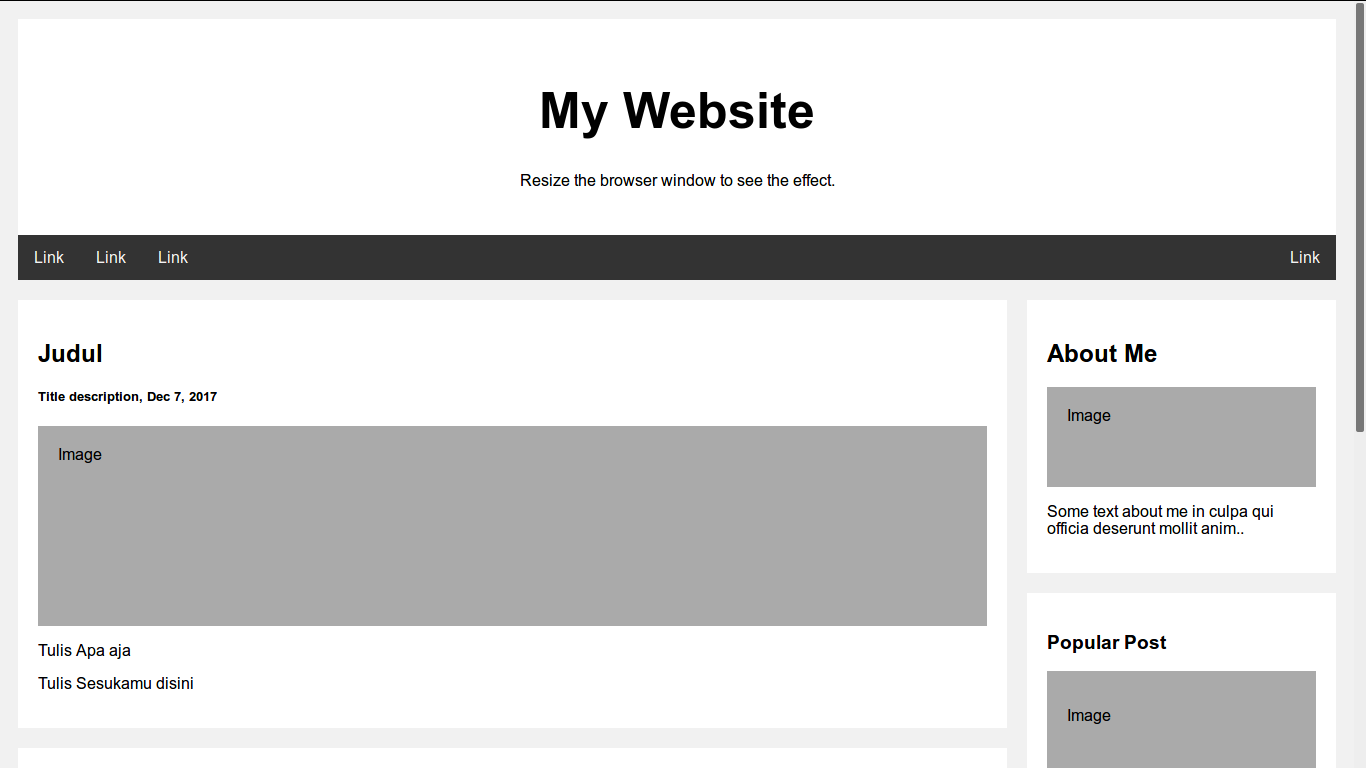
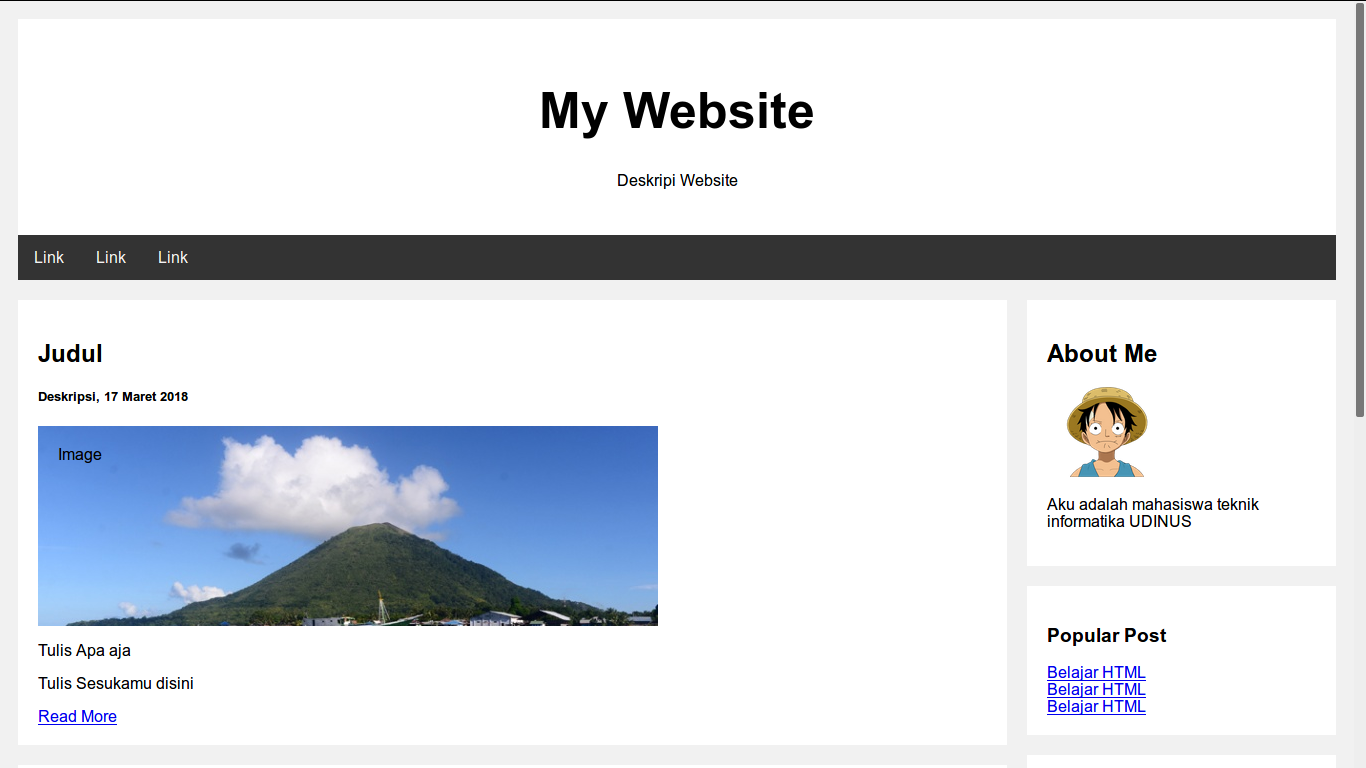
update lageee

diff --git a/WEB-PROGRAMMING-1.md b/WEB-PROGRAMMING-1.md
@@ -1,8 +1,6 @@
 ## Review Materi Pertemuan Pertama Doscom University
 
 ### HTML
-#### Membuat file html sederhana
-Untuk membuat file html anda cukup membuat file dengan menggunakan text editor. Kemudian simpan file tersebut dengan nama yang anda kehendaki dengan ekstensi `.html`. Selamat anda sudah dapat membuat file html \(^0^)/
 
 #### Memahami struktur HTML
 HTML sendiri memiliki struktur hirarkiah sebagai berikut :
@@ -337,7 +335,7 @@ p.namaClass{
 
 
 
-![Layout](assets/output.png)
+![Layout](assets/layout.png)
 
 - box-sizing adalah css property yang digunakan untuk merubah kalkulasi dalam mengukur lebar element. Fitur ini cukup berguna karena sedikit menghilangkan pusing yang biasa timbul ketika kita sedang membuat layout web. Dimana biasanya kita menentukan lebar layout yang kita inginkan terlebih dahulu, setelah itu menentukan lebar sidebar dan conten web
 
@@ -505,17 +503,18 @@ body{
 - Bagian HTML
 
 ```html
+<body>
+
 
 <div class="header">
   <h1>My Website</h1>
-  <p>Deksripsi Website</p>
+  <p>Deskripi Website</p>
 </div>
 
 <div class="topnav">
   <a href="#">Link</a>
   <a href="#">Link</a>
   <a href="#">Link</a>
-  <a href="#" style="float:right">Link</a>
 </div>
 
 
@@ -529,15 +528,19 @@ body{
       <p>Tulis Apa aja </p>
     <p>Tulis Sesukamu disini</p>
   
+    <a href="link.html">Read More</a>
+
     </div>
 
 
     <div class="backartikel">
       <h2>Judul</h2>
       <h5>Deskripsi judul, 17 Maret 2018</h5>
-      <div class="images" style="height:200px;">Image</div>
+      <div class="images" style="height:200px;"></div>
       <p>Tulis Apa Aja</p>
       <p>Tulis Sesukamu disini</p>
+
+      <a href="link.html">Read More</a>
 
     </div>
   </div>
@@ -547,26 +550,33 @@ body{
   <div class="rightcolumn">
     <div class="backartikel">
       <h2>About Me</h2>
-      <div class="images" style="height:100px;">Image</div>
+      <img src="https://img00.deviantart.net/45c9/i/2013/299/6/d/monkey_d__luffy_render_by_annaeditions24-d6rulwm.png" width="120px" alt="">
       <p>Aku adalah mahasiswa teknik informatika UDINUS</p>
     </div>
     <div class="backartikel">
       <h3>Popular Post</h3>
-      <div class="images"><p>Image</p></div>
-      <div class="images"><p>Image</p></div>
-      <div class="images"><p>Image</p></div>
+<a href="linkmu.html">Belajar HTML</a><br>
+<a href="linkmu.html">Belajar HTML</a><br>
+<a href="linkmu.html">Belajar HTML</a><br>
+
+
     </div>
     <div class="backartikel">
       <h3>Follow Me</h3>
-      <p>Follow yaaa</p>
+        
+      <a href="github,com">Github</a><br>
+      <a href="facebook.com">Facebook</a><br>
+      <a href="instagram.com">Instagram</a><br>
+    
     </div>
   </div>
 </div>
 
 <div class="footer">
-  <h2>Footer</h2>
+  <h1>NAMAKU</h1>
 </div>
 
+</body>
 
 ```
 
